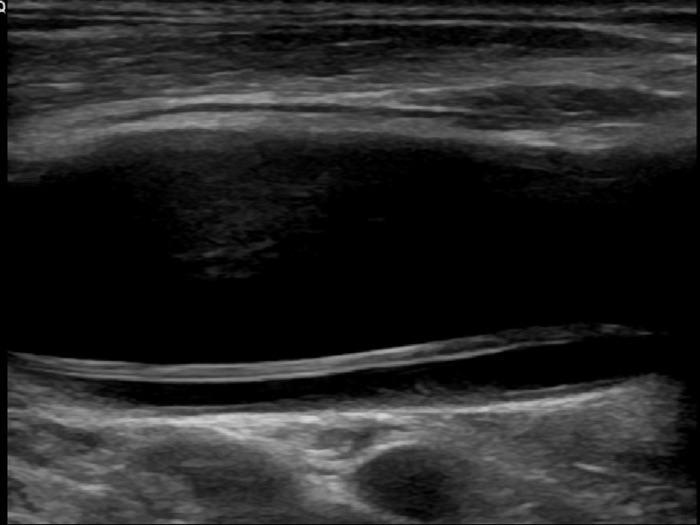
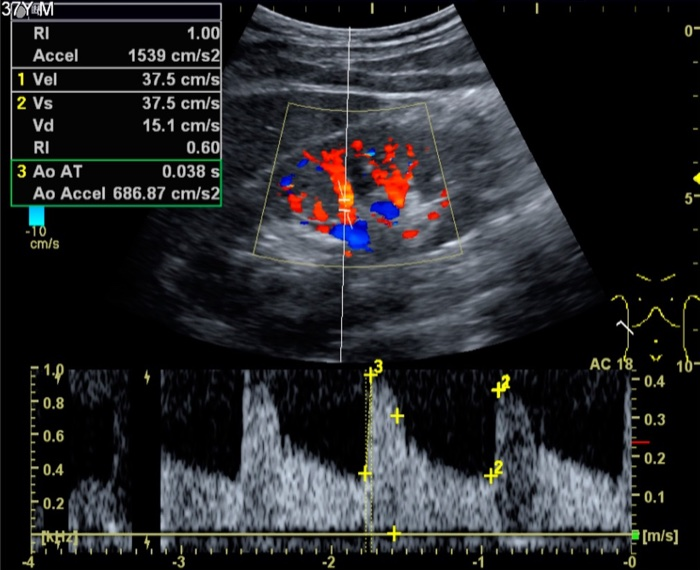
Pagine doppler: immagine ecocolordoppler a colori con spettro arterioso
Carotidi e arti inferiori ora mostrano un'immagine duplex (color doppler +
spettro del flusso arterioso), piu rappresentativa e accattivante. Fonte
Wikimedia Commons CC BY 4.0 (Hansen, Nielsen & Ewertsen), con credito.
Aggiornati alt, dimensioni e cache (?v=3).

diff --git a/ecocolordoppler-arti-inferiori.html b/ecocolordoppler-arti-inferiori.html
@@ -124,8 +124,8 @@
         </p>
         </div>
         <figure class="hero-figure">
-          <img src="images/esame-arti-inferiori.jpg?v=2" alt="Immagine ecografica di una vena della gamba" loading="lazy" width="700" height="459">
-          <figcaption class="hero-credit">Ecografia: Mikael Häggström, <a href="https://creativecommons.org/publicdomain/zero/1.0/" target="_blank" rel="noopener">CC0</a></figcaption>
+          <img src="images/esame-arti-inferiori.jpg?v=3" alt="Ecocolordoppler a colori con spettro del flusso arterioso" loading="lazy" width="700" height="570">
+          <figcaption class="hero-credit">Ecocolordoppler: Hansen, Nielsen &amp; Ewertsen, <a href="https://creativecommons.org/licenses/by/4.0/" target="_blank" rel="noopener">CC BY 4.0</a></figcaption>
         </figure>
       </div>
     </section>

diff --git a/ecocolordoppler-carotidi.html b/ecocolordoppler-carotidi.html
@@ -124,8 +124,8 @@
         </p>
         </div>
         <figure class="hero-figure">
-          <img src="images/esame-carotidi.jpg?v=2" alt="Immagine ecografica della carotide" loading="lazy" width="700" height="525">
-          <figcaption class="hero-credit">Ecografia: Mme Mim, <a href="https://creativecommons.org/licenses/by-sa/4.0/" target="_blank" rel="noopener">CC BY-SA 4.0</a></figcaption>
+          <img src="images/esame-carotidi.jpg?v=3" alt="Ecocolordoppler a colori con spettro del flusso arterioso" loading="lazy" width="700" height="570">
+          <figcaption class="hero-credit">Ecocolordoppler: Hansen, Nielsen &amp; Ewertsen, <a href="https://creativecommons.org/licenses/by/4.0/" target="_blank" rel="noopener">CC BY 4.0</a></figcaption>
         </figure>
       </div>
     </section>